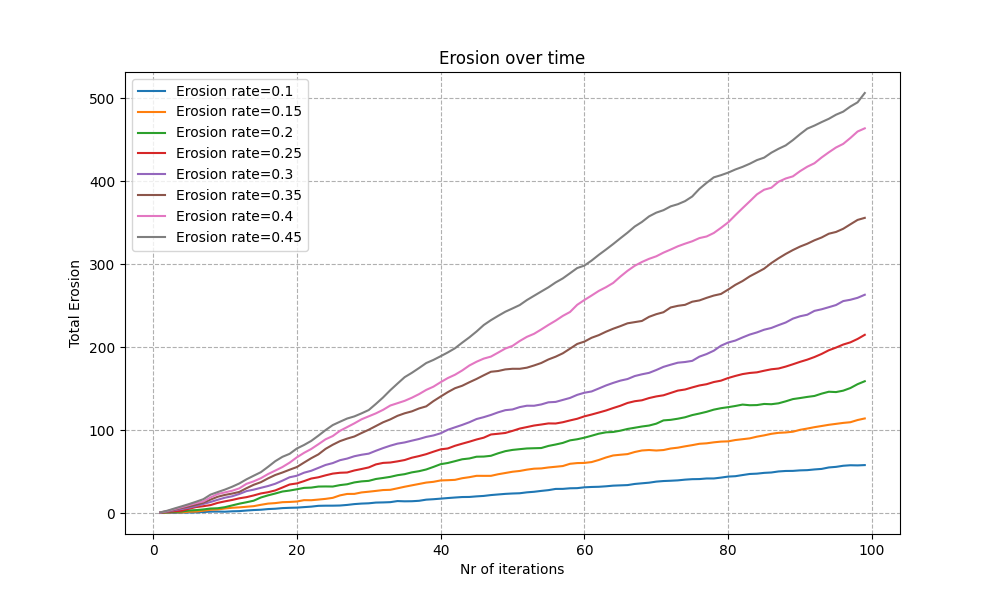
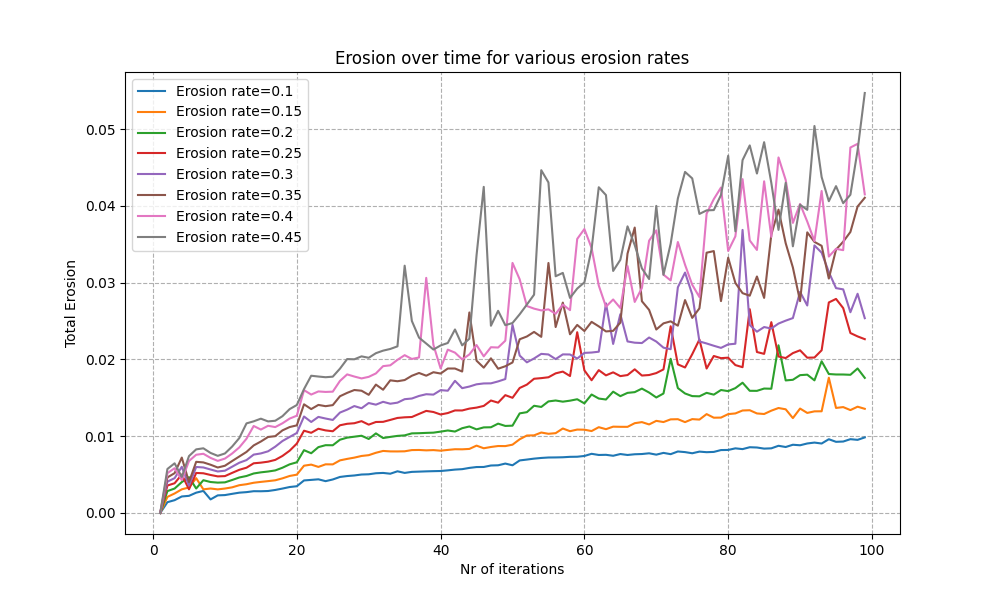
different parameter boundaries

diff --git a/src/exp_erosion_rate.py b/src/exp_erosion_rate.py
@@ -35,7 +35,7 @@ if __name__ == "__main__":
 
     total_erosion = []
     k = np.arange(0.1, 0.5, 0.05)
-    flow_rate = 100
+    flow_rate = 1
 
     for i in k:
         erosion_per_iteration = simulation(42, np.round(i, 2), flow_rate)

diff --git a/src/exp_flow_rate.py b/src/exp_flow_rate.py
@@ -34,7 +34,8 @@ if __name__ == "__main__":
     plt.figure(figsize=(10, 6))
 
     total_erosion = []
-    flow_rate = np.arange(20, 180, 20)
+    flow_rate = np.arange(1, 9, 1)
+    print(len)
     k = 0.1
 
     for i in flow_rate:
